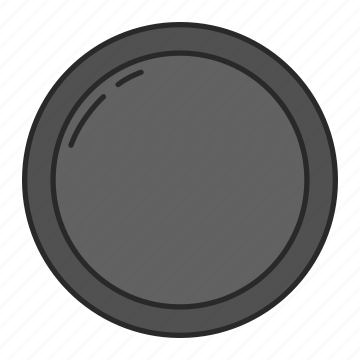
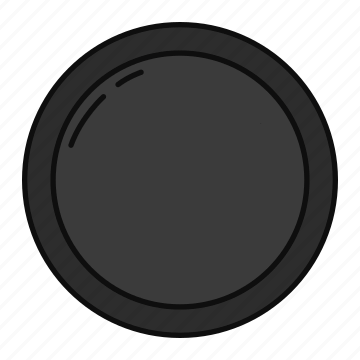
adjusted color themes and fixed crash when kinging

diff --git a/core/src/com/mygdx/game/Piece.java b/core/src/com/mygdx/game/Piece.java
@@ -53,8 +53,8 @@ public class Piece extends Actor {
     }
 
     public void kingMe() {
-        texture = Game.skin.get(white ? "whiteking" : (Game.style == 2 ? "redking" : "blackking"), Texture.class);
         isKing = true;
+        updateColor();
     }
 
     public void updateColor() {
